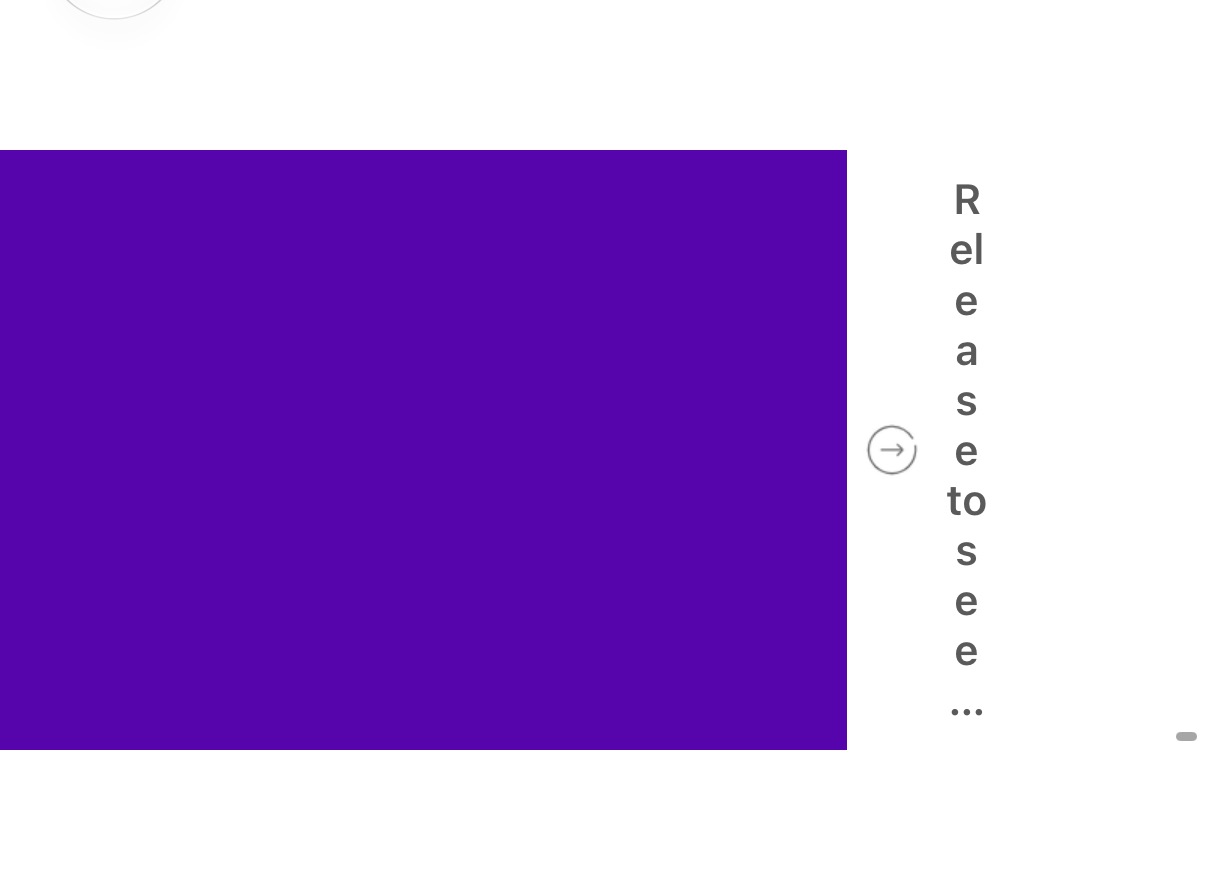
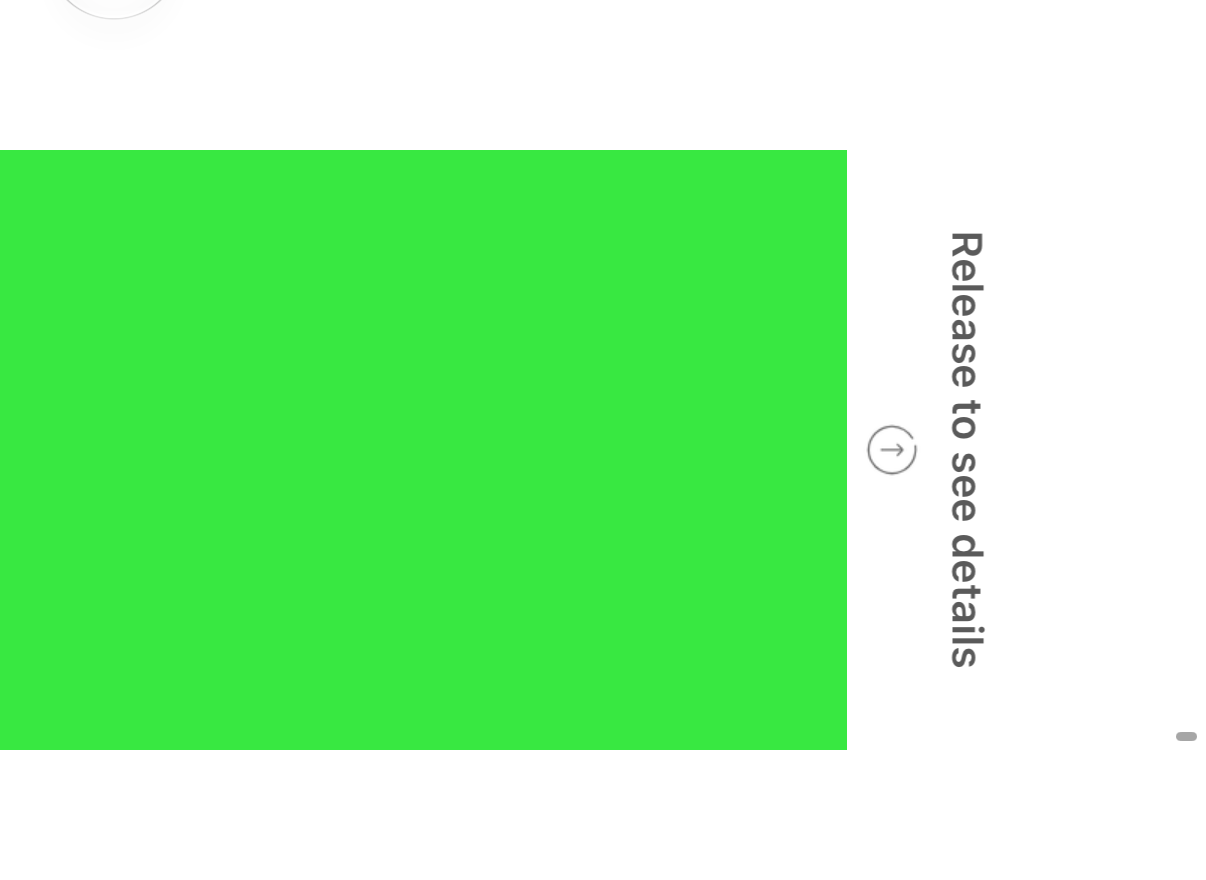
feat(refresh): add autoHideRefresh, readable trailer text and the image-setting rule
Auto-commit 176c3b8 (generic "[Image: original ..." message, already
pushed) holds most of this work; this commit finishes it and records
what it contains.

- autoHideRefresh (replaces hidesWhenIdle, which never left this
  branch): the header shows only while an action is under way (pulling,
  refreshing, retracting) and hides once the refresh ends. On by default
  where the navigation bar is transparent by default (iOS 26 and later);
  off on earlier systems, where callers set it to YES. hidden, alpha and
  automaticallyChangeAlpha are untouched.
- Trailer text (example42) is complete and readable in every language.
  MJRefresh's one-character-wide column split "Release to see details"
  letter by letter and cut it off. CJK text keeps MJRefresh's upright
  one-character-per-line column when it fits; other text (or CJK that
  does not fit) is rotated 90 degrees clockwise to read top to bottom and
  wraps instead of being cut off. The column stays right of the arrow,
  and flipped collection layouts keep the rotation. New public helper
  -cyl_placeStateLabelAtCenterX: for custom trailers.
- Image-setting rule in instructions.md, AGENTS.md and the cyl-api-map
  and cyl-verify skills: search for setImages / setImage / .image = /
  UIImageView and prefer CYLPlaceholderView's image API. Every remaining
  system image setting in the core and the examples now has a comment
  saying why CYLPlaceholderView is not used.
[…]

diff --git a/CYLTableViewPlaceHolder/CYLRefresh/Custom/Trailer/CYLRefreshNormalTrailer.m b/CYLTableViewPlaceHolder/CYLRefresh/Custom/Trailer/CYLRefreshNormalTrailer.m
@@ -49,7 +49,10 @@
     // [CN] 状态文字是箭头右侧的竖列，任何语言都可读。
     BOOL arrowHidden = self.arrowView.isHidden;
     CGFloat stateCenterX = (self.cyl_w + arrowSize.width) * 0.5;
-    [self cyl_placeStateLabelAtCenterX:arrowHidden ? selfCenter.x : stateCenterX];
+    CGFloat width = [self cyl_placeStateLabelAtCenterX:arrowHidden ? selfCenter.x : stateCenterX];
+    // [EN] A wrapped column is wider: keep its left edge right of the arrow. [CN] 换行后竖列更宽：保持其左边缘在箭头右侧。
+    CGFloat minX = CGRectGetMaxX(self.arrowView.frame) + 2;
+    if (!arrowHidden && stateCenterX - width * 0.5 < minX) [self cyl_placeStateLabelAtCenterX:minX + width * 0.5];
 }
 
 - (void)setState:(CYLRefreshState)state {

diff --git a/README.md b/README.md
@@ -432,9 +432,12 @@ self.tableView.cyl_footer = [CYLRefreshAutoNormalFooter footerWithRefreshingBloc
 
 | 中文 | English |
 | --- | --- |
-| 空闲时隐藏刷新头（`autoHideRefresh`，默认 YES，与 MJRefresh 不同）：iOS 26 起导航栏是透明的玻璃效果，收回后的刷新头正好在导航栏下方，会透过导航栏显示在标题上。刷新头在空闲且完全收回时被遮住，下拉、刷新中和收回动画期间照常显示；`hidden`、`alpha` 与 `automaticallyChangeAlpha` 不受影响。设为 NO 恢复 MJRefresh 的行为。下图从上到下：example01、04、11 刷新结束后的导航栏。 | Hidden while idle (`autoHideRefresh`, default YES, unlike MJRefresh): since iOS 26 the navigation bar is transparent glass, and a retracted header sits right under it, showing through over the title. The header is masked out while idle and fully retracted, and shows as usual while pulled, refreshing and retracting; `hidden`, `alpha` and `automaticallyChangeAlpha` are untouched. Set NO for MJRefresh's behavior. Below, top to bottom: the navigation bar of example01, 04 and 11 after the refresh ends. |
+| 刷新结束自动隐藏刷新头（`autoHideRefresh`）：iOS 26 起导航栏默认是透明的玻璃效果，收回后的刷新头正好在导航栏下方，会透过导航栏显示在标题上。开启后，刷新头只在有动作时显示（下拉、刷新中、刷新结束后的收回），刷新结束、空闲且完全收回后自动隐藏；`hidden`、`alpha` 与 `automaticallyChangeAlpha` 不受影响。在导航栏默认透明的系统上（iOS 26 及以后）默认开启，与 MJRefresh 不同；更早的系统默认关闭，需要时手动设为 YES。下图从上到下：example01、04、11 刷新结束后的导航栏。 | Auto-hide after refreshing (`autoHideRefresh`): since iOS 26 the navigation bar is transparent glass by default, and a retracted header sits right under it, showing through over the title. When on, the header shows only while an action is under way (pulling, refreshing, retracting after the refresh) and hides again once the refresh has ended and it is idle and fully retracted; `hidden`, `alpha` and `automaticallyChangeAlpha` are untouched. On by default where the navigation bar is transparent by default (iOS 26 and later), unlike MJRefresh; off by default on earlier systems, where you set it to YES yourself. Below, top to bottom: the navigation bar of example01, 04 and 11 after the refresh ends. |
 
 ```objc
+// [CN] iOS 26 之前的系统上手动开启：刷新结束后自动隐藏刷新头
+// [EN] Turn it on yourself before iOS 26: the header hides once the refresh ends
+self.tableView.cyl_header.autoHideRefresh = YES;
 // [CN] 恢复 MJRefresh 的行为：收回后的刷新头保持可见
 // [EN] MJRefresh's behavior: the retracted header stays visible
 self.tableView.cyl_header.autoHideRefresh = NO;
@@ -677,7 +680,11 @@ self.collectionView.cyl_trailer = [CYLRefreshNormalTrailer trailerWithRefreshing
 }];
 ```
 
-![左拉刷新：拉过最后一页时显示“松开查看”/ Pull left: “Release to see” past the last page](assets/cyl-refresh-example42.png)
+| 中文 | English |
+| --- | --- |
+| 状态文字是箭头右侧的竖列，任何语言都完整、可读：中日韩文字放得下时与 MJRefresh 一样逐字竖排、保持正立；英文、俄文等文字（或放不下的中日韩文字）顺时针旋转 90° 从上往下读，过长时换行而不是截断（MJRefresh 一个字宽的竖列会把英文单词逐字母拆开并截断）。自定义 trailer 可调用 `-cyl_placeStateLabelAtCenterX:` 使用同样的排版。下图：拉过最后一页时显示完整的 “Release to see details”。 | The state text is a vertical column right of the arrow, complete and readable in every language: CJK text stands upright one character per line, as in MJRefresh, when it fits; English, Russian and other text (or CJK text that does not fit) is rotated 90° clockwise to read top to bottom, and wraps instead of being cut off (MJRefresh's one-character-wide column splits English words letter by letter and cuts them off). Custom trailers get the same layout from `-cyl_placeStateLabelAtCenterX:`. Below: the full "Release to see details" past the last page. |
+
+![左拉刷新：拉过最后一页时完整显示旋转后的 “Release to see details” / Pull left: the full, rotated “Release to see details” past the last page](assets/cyl-refresh-example42.png)
 
 #### WKWebView 01：下拉刷新 / WKWebView 01: Pull-down refresh
 

diff --git a/docs/issue-progress.md b/docs/issue-progress.md
@@ -168,7 +168,7 @@
 | TODO — #1586 隐藏 header 刷新位置（90） | iOS 26.3.1 完整套件已通过（2026-11-12）；未比对原报告截图，未验证真实页面。 | 按原报告的页面结构在示例中复现并截图比对。 |
 | TODO — #1575 JXSegmentedView 崩溃（50） | iOS 17.5 未复现；iOS 26.4 启动停滞；原 iOS 16 场景未验证。 | iOS 16 模拟器 + JXSegmentedView demo 下拉刷新。 |
 | TODO — #1563 箭头图片泄漏疑问（50） | 静态分析与释放测试无泄漏；未在 Instruments Leaks 复现。 | 真机 Instruments Leaks 记录，确认或排除 `NSPathStore2`。 |
-| TODO — #1523 collection 动画选项闪烁（70） | 已解决：底部加载（含无更多数据）后刷新头归位，collection 与导航栏同一 y 轴起点，绝对布局断言防回归（iOS 26.1 通过，f01ddb4 构建失败；27.2 断言运行未完成，待 CI 或本机复测）。录屏逐帧检测（约 25 fps，iOS 26.1）未见闪烁。2026-11-12 起空闲且完全收回的刷新头默认隐藏（`CYLRefreshHeader.autoHideRefresh`，默认 YES），不再透过 iOS 26 的玻璃导航栏显示（example01、04、11 截图验证）。 | 60 fps 录屏或真机复测闪烁；原报告 iOS 14.5 / iPhone XR 环境；移植原 demo 其余页面并验证 #225 悬浮 header。 |
+| TODO — #1523 collection 动画选项闪烁（70） | 已解决：底部加载（含无更多数据）后刷新头归位，collection 与导航栏同一 y 轴起点，绝对布局断言防回归（iOS 26.1 通过，f01ddb4 构建失败；27.2 断言运行未完成，待 CI 或本机复测）。录屏逐帧检测（约 25 fps，iOS 26.1）未见闪烁。2026-11-12 起空闲且完全收回的刷新头默认隐藏（`CYLRefreshHeader.autoHideRefresh`，在导航栏默认透明的 iOS 26 及以后默认开启，更早的系统需手动开启），不再透过 iOS 26 的玻璃导航栏显示（example01、04、11 截图验证）。 | 60 fps 录屏或真机复测闪烁；原报告 iOS 14.5 / iPhone XR 环境；移植原 demo 其余页面并验证 #225 悬浮 header。 |
 | TODO — #1506 collection 大幅加载动画（25） | 仅验证能触发和结束刷新。 | 同 #1523 的视觉测试，确认是否同一根因。 |
 | TODO — #1483 collection 连续刷新上移（50） | inset 恢复已修；刷新中反复拖动未复现。 | XCUITest 刷新中反复拖动并检查首项位置。 |
 | TODO — #1481 trailer 转 footer 残留（85） | 需先移除 trailer；保留 trailer 的场景未确认。 | 获取切换代码后补用例。 |
